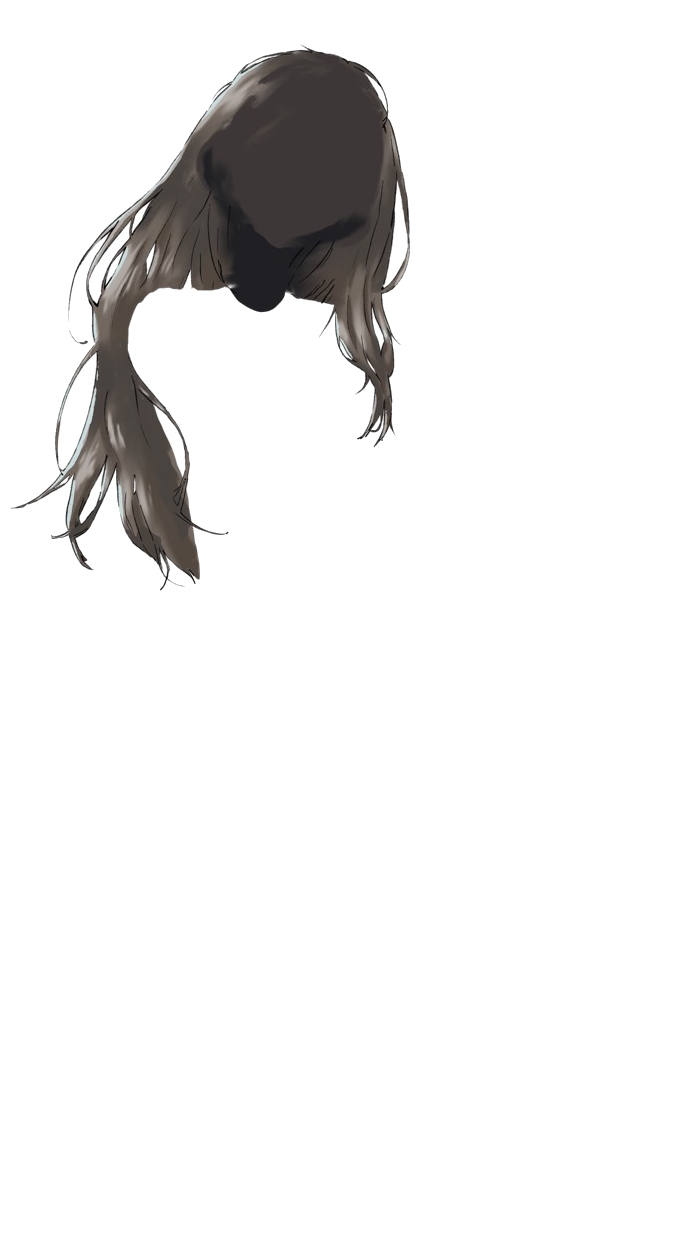
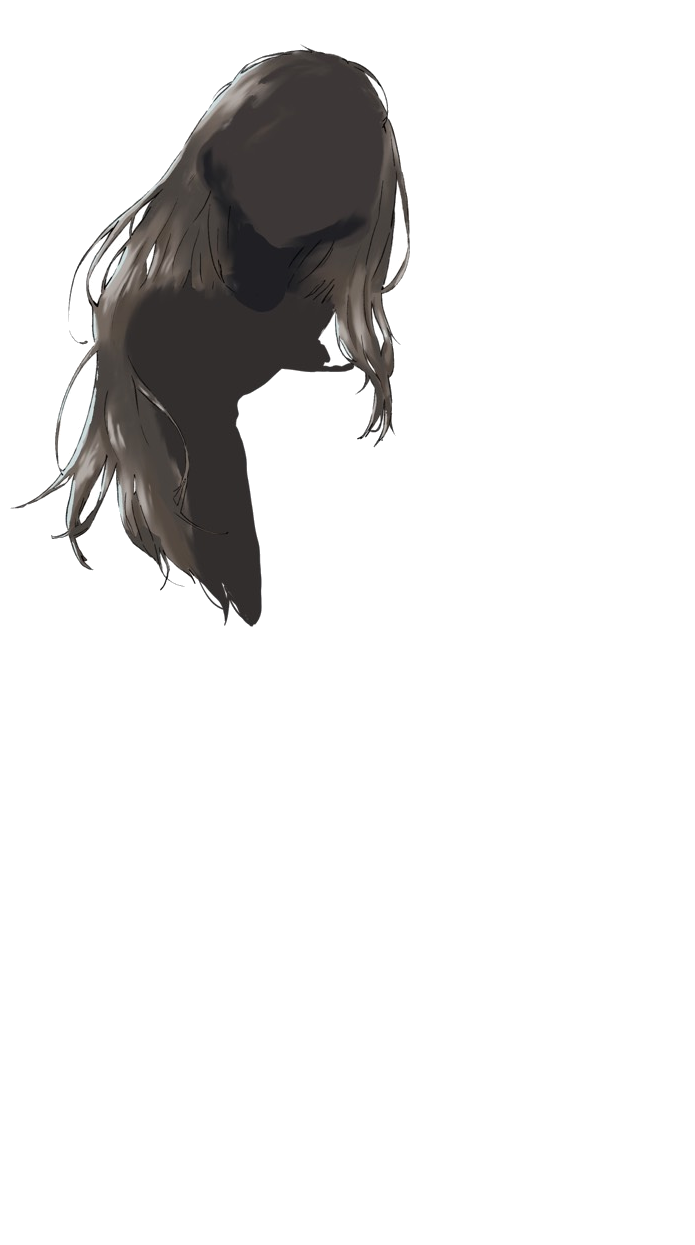
Blinking, lip sync, a bigger character, and hair that stays attached
The new layers wire straight in: three mouth drawings on the talk timer,
three eye drawings on the blink timer, and the longer hair replacing the
old one. Blinking now passes through a half-lidded frame at each end
rather than cutting open-to-shut, which at this size is the difference
between a blink and a dropped frame.

The hair was swinging 6 degrees away from the head, which is why it read
as a wig sliding around rather than hair. `amount` is the number that
decides this - how much of the spring's deviation from the parent is
actually applied - and 1.5 was far too much. At 0.5 it trails the skull
by 1.8 degrees, still visibly lagging, still clearly attached.

The portrait is drawn at 422x760 instead of 300x540.

That last change cost 15fps, because every part is a full-canvas image
mostly full of nothing and all eleven were being drawn as full-size
rectangles - a 32px mouth costing as much as the skirt. The renderer now
measures each image's opaque area once on load and draws only that.
Character cost per frame: 26.7ms -> 2.8ms, and 60fps on three runs where
it had been 41/48/44. Drawing the same frame both ways differs in 8
pixels out of two million, all edge-resampling rounding.

One thing is not the artist's work and should be replaced. Her closed-eye
drawing is a lash line only, drawn as if nothing were underneath, but the
face layer has her eye whites painted on - so a blink showed two
rolled-back white eyes. eyes/closed.png here is that lash line over a
[…]

Changed region(s): [[0.1813, 0.2137, 0.5137, 0.5189]]

diff --git a/src/vn/portrait-renderer.js b/src/vn/portrait-renderer.js
@@ -14,6 +14,52 @@
 const DEFAULT_ROOT = 'assets/characters';
 const MOUTH_VARIANTS = ['closed', 'half', 'open'];
 
+// A part image is a full canvas that is mostly transparent - that convention
+// is what keeps the parts aligned with each other without any per-part
+// bookkeeping. Drawing it as a full-size rectangle every frame is the
+// expensive half of that bargain: a mouth 32px across was costing exactly as
+// much to draw as the skirt.
+//
+// So each image is measured once, when it loads, and afterwards only the part
+// of it that actually has pixels is drawn. Measured on this project's
+// character that is 11 full-canvas rectangles a frame down to about one
+// canvas' worth in total.
+function opaqueBounds(image) {
+  const { naturalWidth: w, naturalHeight: h } = image;
+  if (!w || !h) return null;
+  const canvas = document.createElement('canvas');
+  canvas.width = w;
+  canvas.height = h;
+  const ctx = canvas.getContext('2d', { willReadFrequently: true });
+  ctx.drawImage(image, 0, 0);
+
+  let data;
+  try {
+    data = ctx.getImageData(0, 0, w, h).data;
+  } catch {
+    return null; // tainted canvas (file://) - fall back to drawing it whole
+  }
+
+  let x0 = w, y0 = h, x1 = -1, y1 = -1;
+  for (let y = 0; y < h; y++) {
+    const row = y * w * 4;
+    for (let x = 0; x < w; x++) {
+      if (data[row + x * 4 + 3] > 8) {
+        if (x < x0) x0 = x;
+        if (x > x1) x1 = x;
+        if (y < y0) y0 = y;
+        if (y > y1) y1 = y;
+      }
+    }
+  }
+  if (x1 < 0) return { empty: true };
+  return {
+    empty: false,
+    sx: x0, sy: y0, sw: x1 - x0 + 1, sh: y1 - y0 + 1,
+    fx: x0 / w, fy: y0 / h, fw: (x1 - x0 + 1) / w, fh: (y1 - y0 + 1) / h,
+  };
+}
+
 export class PortraitRenderer {
   constructor(images, root = DEFAULT_ROOT) {
     this.images = images; // shared ImageCache
@@ -44,10 +90,22 @@ export class PortraitRenderer {
       const entry = this.images.get(`${this.root}/${character.id}/${part.name}/${variant}.png`);
       if (!entry.ready) continue;
 
+      if (entry.bounds === undefined) entry.bounds = opaqueBounds(entry.image);
+      const bounds = entry.bounds;
+      if (bounds?.empty) continue;
+
       ctx.save();
       const chain = rig.chainTo(part.name);
       chain.forEach((node, i) => this._applyPose(ctx, node, width, height, i === chain.length - 1));
-      ctx.drawImage(entry.image, -width / 2, -height, width, height);
+      if (bounds) {
+        ctx.drawImage(
+          entry.image, bounds.sx, bounds.sy, bounds.sw, bounds.sh,
+          -width / 2 + bounds.fx * width, -height + bounds.fy * height,
+          bounds.fw * width, bounds.fh * height,
+        );
+      } else {
+        ctx.drawImage(entry.image, -width / 2, -height, width, height);
+      }
       ctx.restore();
       drewAny = true;
     }
@@ -80,7 +138,7 @@ export class PortraitRenderer {
   }
 
   _variantFor(character, part, motion) {
-    if (part.blink) return motion?.blinking ? 'closed' : 'open';
+    if (part.blink) return motion?.eyeVariant ?? (motion?.blinking ? 'closed' : 'open');
     if (part.talk) return MOUTH_VARIANTS[motion?.mouthIndex ?? 0] ?? 'closed';
     return character.getLayer(part.name);
   }

diff --git a/src/vn/content/demo-characters.js b/src/vn/content/demo-characters.js
@@ -106,9 +106,12 @@ const HERO_RIG = buildRig({
 // x from the left, y from the TOP). She stands slightly left of centre in
 // her own art because the skirt flares to the right.
 const SENPAI_RIG = [
-  // Long hair, behind everything, springing off the head. The loosest thing
-  // on the character and the single biggest reason she reads as alive.
-  { name: 'hair_back', parent: 'head', pivot: [0.42, 0.035], spring: { stiffness: 110, damping: 9, amount: 1.5 } },
+  // Long hair, behind everything, lagging the head. `amount` is the important
+  // number: it is how much of the spring's deviation from the head is actually
+  // applied, and it is what decides whether the hair reads as attached. Too
+  // high and the hair swings independently of the skull, which looks like a
+  // wig sliding around rather than hair moving.
+  { name: 'hair_back', parent: 'head', pivot: [0.42, 0.035], spring: { stiffness: 150, damping: 13, amount: 0.5 } },
 
   // Legs. The one part that genuinely does not move - it is what makes
   // everything above it read as motion rather than the whole image drifting.
@@ -136,14 +139,22 @@ const SENPAI_RIG = [
   // something that reads as her shifting her weight.
   { name: 'head', parent: 'torso', pivot: [0.43, 0.205], tilt: -0.9, sway: 1.2 },
 
-  // Irises, over the face's own eye whites. Deliberately NOT marked `blink`:
-  // that would make the renderer ask for closed.png, which does not exist,
-  // and the part would vanish for the length of every blink.
-  { name: 'eyes', parent: 'head', pivot: [0.43, 0.205] },
+  // The whole eye, blinking open -> half -> closed -> half -> open.
+  //
+  // `closed.png` is NOT purely the artist's work and should be replaced when
+  // it can be. The artist's shut.png is a lash line only, drawn on the
+  // assumption that nothing is underneath - but the face layer has her eye
+  // whites painted on, so that lash line alone left two white eyes showing
+  // through every blink. closed.png is shut.png over a patch that fills just
+  // the sclera with the eyelid's own skin tone. See the README.
+  { name: 'eyes', parent: 'head', blink: true, pivot: [0.43, 0.205] },
+
+  // Lip sync. Driven by the talk timer, not by `layers`: closed / half / open.
+  { name: 'mouth', parent: 'head', talk: true, pivot: [0.43, 0.205] },
 
   // Bangs. Stiffer and lighter than the hair behind, so the two never swing
   // as one slab.
-  { name: 'hair_front', parent: 'head', pivot: [0.42, 0.035], spring: { stiffness: 170, damping: 11, amount: 0.9 } },
+  { name: 'hair_front', parent: 'head', pivot: [0.42, 0.035], spring: { stiffness: 210, damping: 15, amount: 0.35 } },
 
   // The waist ties: tiny, loose, and the fastest thing on her.
   { name: 'bows', parent: 'torso', pivot: [0.44, 0.36], spring: { stiffness: 220, damping: 8, amount: 1.4 } },
@@ -175,7 +186,6 @@ export function createDemoCharacters() {
         bodice: 'default',
         arm_r: 'default',
         head: 'default',
-        eyes: 'default',
         hair_front: 'default',
         bows: 'default',
       },

diff --git a/src/vn/portrait-motion.js b/src/vn/portrait-motion.js
@@ -10,6 +10,9 @@
 //   tilt        slow sine - idle postural drift
 //   sway        slow sine on a different period - a second, independent drift
 //   blinking    boolean, short closures at randomised intervals
+//   eyeVariant  'open' | 'half' | 'closed' - the same blink, but passing
+//               through a half-lidded frame on the way down and back up,
+//               for characters whose art has one
 //   mouthIndex  0..2 while speaking - which mouth shape to show
 //
 // The idle periods are deliberately not multiples of each other. If they
@@ -90,6 +93,17 @@ export class PortraitMotion {
       this.blinkT = 0;
       this.pendingDoubleBlink = Math.random() < this.doubleBlinkChance;
     }
+  }
+
+  // Which eye drawing to show. A blink that cuts straight from open to shut
+  // and back reads as a glitch at close range; passing through a half-lidded
+  // frame at each end costs two frames and reads as an eyelid. A character
+  // with no `half` art simply never sees that variant, because the renderer
+  // falls back when the file is missing.
+  get eyeVariant() {
+    if (!this.blinking) return 'open';
+    const progress = this.blinkDuration > 0 ? this.blinkT / this.blinkDuration : 1;
+    return progress < 0.25 || progress > 0.75 ? 'half' : 'closed';
   }
 
   _updateMouth(dt, speaking) {

diff --git a/src/vn/scenes/dialogue-scene.js b/src/vn/scenes/dialogue-scene.js
@@ -8,8 +8,11 @@ const BOX_MARGIN = 16;
 const BOX_HEIGHT = 210;
 const BOX_PAD = 18;
 const LINE_HEIGHT = 25;
-const PORTRAIT_W = 300;
-const PORTRAIT_H = 540; // matches a ~9:16 half-body/full-body crop, not tied to any source image's own pixel size
+// The box a portrait is drawn into. Its shape has to match the art's own
+// aspect (both characters' part canvases are ~0.558 wide for their height) or
+// the character is stretched; the SIZE is just how big she reads on screen.
+const PORTRAIT_W = 422;
+const PORTRAIT_H = 760;
 
 // Closer together than a landscape layout could afford - VIEW is much
 // narrower now, and two portraits at POSITION_X's spread naturally overlap a

diff --git a/tools/key-layers.py b/tools/key-layers.py
@@ -30,7 +30,12 @@ portrait box wants.
 Requires Pillow: pip install pillow
 
 Usage:
-    python3 tools/key-layers.py <out_dir> <part>=<file> ... [options]
+    python3 tools/key-layers.py <out_dir> <part>[/<variant>]=<file> ... [options]
+
+A part with no variant is written as `default.png`. Name the variant when a
+part has several - the animation picks between them:
+    eyes/open= eyes/closed=            blink
+    mouth/closed= mouth/half= mouth/open=   lip sync
 
 Example:
     python3 tools/key-layers.py assets/characters/senpai \\
@@ -208,11 +213,14 @@ def main():
         if "=" not in spec:
             sys.exit(f'! expected <part>=<file>, got "{spec}"')
         part, path = spec.split("=", 1)
-        layers.append((part, path))
+        variant = "default"
+        if "/" in part:
+            part, variant = part.split("/", 1)
+        layers.append((part, variant, path))
 
     size = None
     keyed = []
-    for part, path in layers:
+    for part, variant, path in layers:
         im = Image.open(path).convert("RGB")
         if size is None:
             size = im.size
@@ -224,9 +232,9 @@ def main():
         box = alpha.getbbox()
         if box is None:
             sys.exit(f"! {path} is blank once the background is keyed out")
-        keyed.append((part, path, im, alpha, box))
+        keyed.append((part, variant, im, alpha, box))
         note = f"  (+{pockets} px of trapped background cleared)" if pockets else ""
-        print(f"  {part:<12} {os.path.basename(path):<22} "
+        print(f"  {part}/{variant:<16} {os.path.basename(path):<22} "
               f"{sum(alpha.histogram()[200:]):>7} opaque px{note}")
 
     crop = opts["crop"] or common_crop([k[4] for k in keyed], size, opts["aspect"],
@@ -234,20 +242,21 @@ def main():
     cw, ch = crop[2] - crop[0], crop[3] - crop[1]
     print(f"\n  crop {crop}  -> {cw}x{ch}  (aspect {cw / ch:.4f})")
 
-    for part, _, im, alpha, box in keyed:
+    for part, variant, im, alpha, box in keyed:
+        box = alpha.getbbox()
         inside = (max(box[0], crop[0]), max(box[1], crop[1]),
                   min(box[2], crop[2]), min(box[3], crop[3]))
         if inside[0] >= inside[2] or inside[1] >= inside[3]:
-            print(f"  ! {part} falls entirely outside the crop")
+            print(f"  ! {part}/{variant} falls entirely outside the crop")
         elif box != inside:
-            print(f"  ! {part} is clipped by the crop ({box} -> {inside})")
+            print(f"  ! {part}/{variant} is clipped by the crop ({box} -> {inside})")
 
     if opts["dry_run"]:
         print("  --dry-run: nothing written")
         return
 
     print()
-    for part, _, im, alpha, _ in keyed:
+    for part, variant, im, alpha, _ in keyed:
         cropped_alpha = alpha.crop(crop)
         rgb = im.convert("RGB").crop(crop)
         # Black out the colour where nothing is drawn: invisible, but it is
@@ -260,9 +269,9 @@ def main():
 
         dest_dir = os.path.join(out_dir, part)
         os.makedirs(dest_dir, exist_ok=True)
-        dest = os.path.join(dest_dir, "default.png")
+        dest = os.path.join(dest_dir, f"{variant}.png")
         out.save(dest)
-        print(f"  {part:<12} -> {dest}  ({os.path.getsize(dest) / 1024:.0f} KB)")
+        print(f"  {part}/{variant:<16} -> {dest}  ({os.path.getsize(dest) / 1024:.0f} KB)")
 
 
 if __name__ == "__main__":

diff --git a/README.md b/README.md
@@ -229,7 +229,8 @@ python3 tools/split-parts.py 基底.png assets/characters/hero \
 | `bodice` | 上身衣料（合身，所以只跟著軀幹） | 跟著軀幹 |
 | `arm_r` | 舉起來的右手（整隻含手掌） | 自己的擺動＋彈簧 |
 | `head` | 臉 | 微傾、隨呼吸上下 |
-| `eyes` | 瞳孔（畫在臉的眼白上面） | 跟著頭 |
+| `eyes` | 整顆眼睛，三張：`open` / `half` / `closed` | 眨眼 |
+| `mouth` | 嘴，三張：`closed` / `half` / `open` | 說話時輪替＝嘴型 |
 | `hair_front` | 瀏海 | 彈簧跟隨頭部，比後髮硬 |
 | `bows` | 腰側的兩個蝴蝶結 | 最快最彈的彈簧 |
 
@@ -243,8 +244,14 @@ python3 tools/split-parts.py 基底.png assets/characters/hero \
 python3 tools/key-layers.py assets/characters/senpai \
     hair_back=raw/長髮.jpg lower=raw/腿.jpg torso=raw/身體.jpg \
     skirt=raw/裙子.jpg bodice=raw/上衣.jpg arm_r=raw/右手.jpg \
-    head=raw/臉.jpg eyes=raw/瞳孔.jpg hair_front=raw/瀏海.jpg bows=raw/蝴蝶結.jpg
+    head=raw/臉.jpg hair_front=raw/瀏海.jpg bows=raw/蝴蝶結.jpg \
+    eyes/open=raw/睜眼.jpg eyes/half=raw/半闔.jpg \
+    mouth/closed=raw/閉嘴.jpg mouth/half=raw/半開.jpg mouth/open=raw/張嘴.jpg
 ```
+
+部件有多個變體時在名稱後面加 `/變體`；沒寫就是 `default`。眨眼是
+`open → half → closed → half → open`，兩端各經過一格半闔眼——直接從睜開跳到閉上
+在近距離看會像畫面壞掉，中間那一格只花兩個影格，但看起來才像眼皮。
 
 去背用的是**從邊界往內的填充**，不是「比某個亮度白就挖掉」。這個差別很重要：
 這個角色穿米白色洋裝、眼睛裡有白色高光，用亮度門檻會直接在洋裝和眼睛上打洞。
@@ -333,6 +340,20 @@ PNG 還是會把那些像素的顏色老老實實存下來。把透明區的 RGB
 `split-parts.py` 和 `cut-variants.py` 都已經這樣做了。手邊如果有舊的部件圖，
 重切一次就好。
 
+### ⚠ 底圖上有的五官，替換用的圖層一定要蓋得住
+
+學姊的 `eyes/closed.png` **不完全是繪師的圖**，這是目前唯一還需要補的東西。
+
+繪師給的閉眼圖只有睫毛那條線——那是假設底下什麼都沒有才成立的。但臉的圖層上
+**已經畫了眼白**，所以只疊一條睫毛線上去，眨眼時會看到兩顆翻白的眼睛，實際跑
+起來非常明顯。
+
+現在的 `closed.png` 是「睫毛線 ＋ 一塊只填住眼白的眼皮膚色補丁」，補丁顏色取自
+眼睛周圍皮膚的中位數。看起來可以，但那是補的不是畫的。
+
+**要修乾淨只需要一張圖：一張不含眼睛的臉。** 有了它，繪師原本的閉眼圖就直接能
+用，補丁整個丟掉。嘴巴沒有這個問題——三張嘴型都蓋得住臉上原本那條嘴線。
+
 ### 動態幅度是「每個角色自己的」，不是全域的
 
 `rig.js` 裡的 `BREATHE_SCALE` / `TILT_RAD` / `SWAY_RAD` 是**權重 1 的基準值**，
@@ -358,6 +379,25 @@ PNG 還是會把那些像素的顏色老老實實存下來。把透明區的 RGB
 
 學姊在這個幅度下連跑 45 影格，**人物內部沒有任何一個像素露出背景**。切片角色
 做不到這件事，這就是分層素材真正買到的東西。
+
+### 部件圖是整張畫布，但引擎只畫有東西的那一塊
+
+「每個部件都是同樣大小的整張畫布」這個慣例的好處是部件天生對齊，不需要任何額外
+的位置資料。代價是**每一格都在畫 11 個全尺寸矩形**——一張 32px 寬的嘴，跟整條
+裙子一樣貴。
+
+所以 `PortraitRenderer` 會在圖片載入時量一次它實際有像素的範圍，之後只畫那一塊。
+素材格式不用改，也不需要額外的設定檔。
+
+實測（學姊，人物畫到 422×760）：
+
+| | 每格畫人物的時間 |
+| --- | --- |
+| 整張畫布都畫 | 26.7 ms |
+| 只畫有東西的部分 | **2.8 ms** |
+
+同一格畫面用兩種方式各畫一次，兩百萬個像素裡只有 8 個差超過 24 階（縮放取樣的
+捨入），所以是純粹的速度改善。沒有這個，人物一放大 fps 就從 60 掉到 45。
 
 ### 關節位置要對得上你的構圖
 
